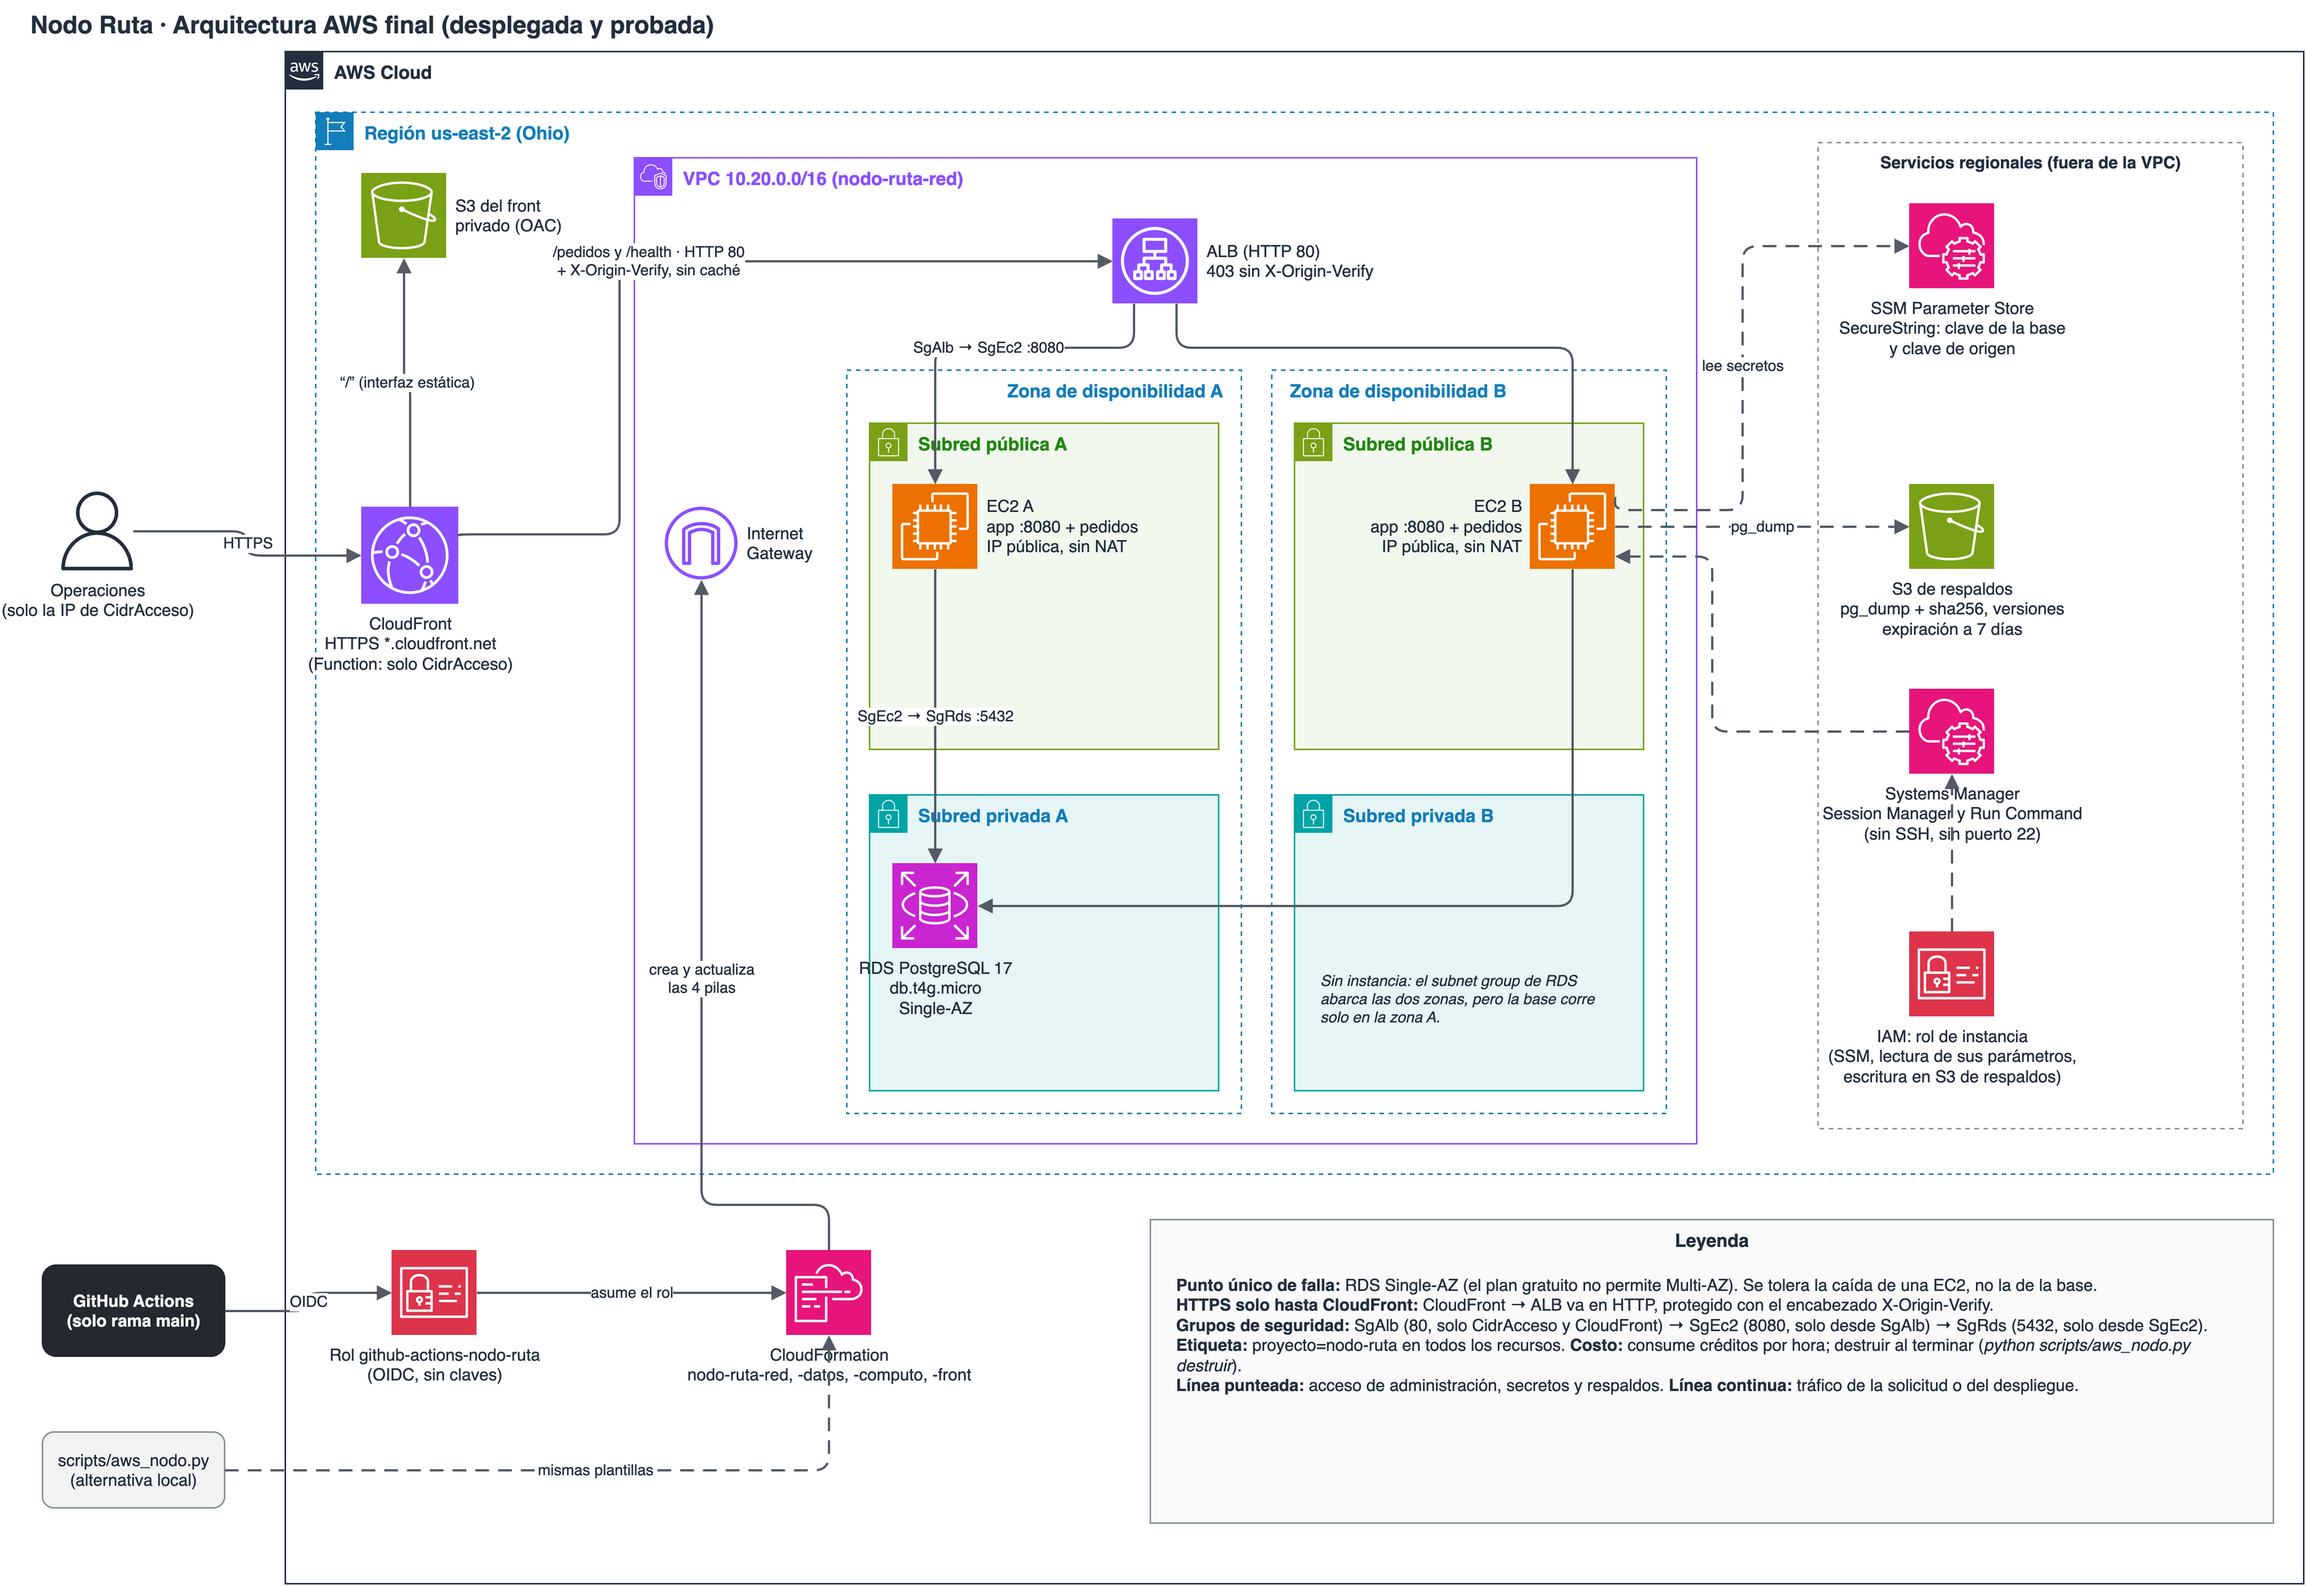
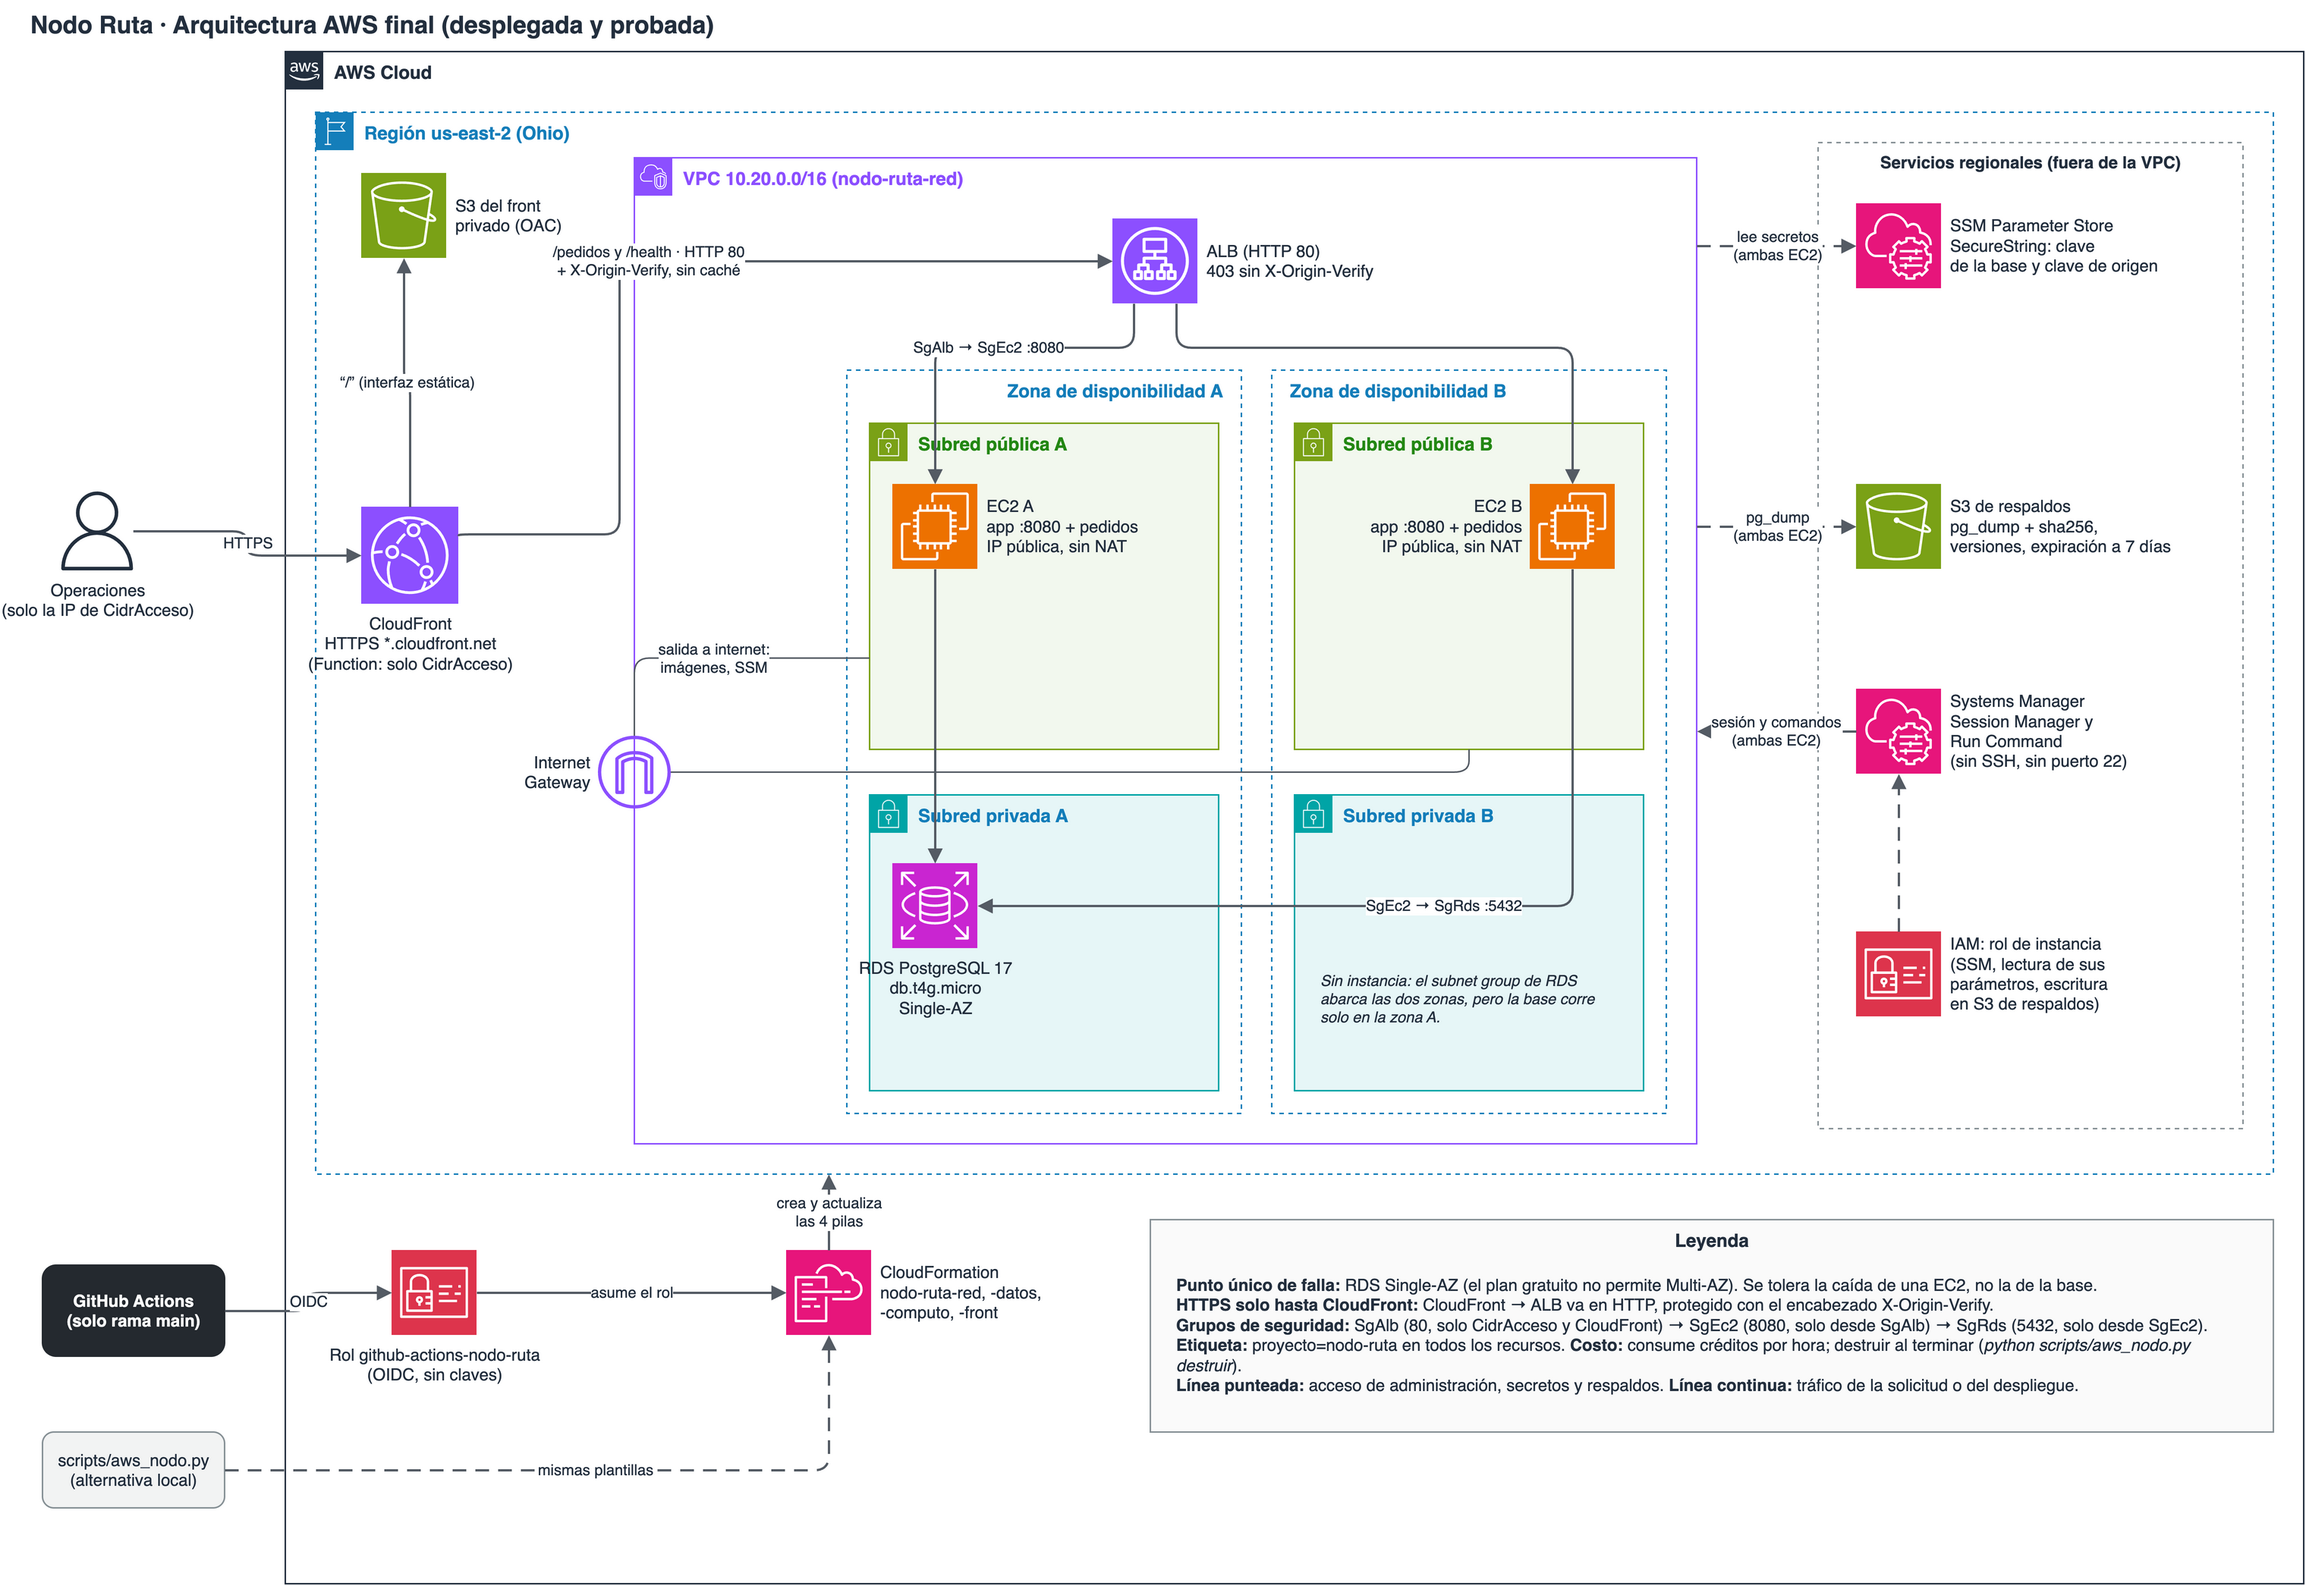
docs: ajustar diagrama AWS final (flechas sin cruzar textos, IGW conectado, accesos de ambas EC2)

diff --git a/docs/arquitectura/generar_aws_final.py b/docs/arquitectura/generar_aws_final.py
@@ -25,12 +25,14 @@ def add(value, style, x, y, w, h, cid=None):
     return cid
 
 
-def edge(src, tgt, label="", dashed=False, exit=None, entry=None, color="#545B64", pts=None, both=False):
+def edge(src, tgt, label="", dashed=False, exit=None, entry=None, color="#545B64", pts=None, both=False, thin=False):
     cid = nid("e")
     st = ("edgeStyle=orthogonalEdgeStyle;rounded=1;jettySize=auto;html=1;endArrow=block;endFill=1;"
           f"strokeColor={color};strokeWidth=1.5;fontSize=10;fontColor=#232F3E;labelBackgroundColor=#FFFFFF;")
     if dashed:
         st += "dashed=1;dashPattern=6 4;"
+    if thin:
+        st = st.replace("strokeWidth=1.5","strokeWidth=1").replace("endArrow=block;endFill=1","endArrow=none")
     if both:
         st += "startArrow=block;startFill=1;"
     if exit:
@@ -95,36 +97,36 @@ usuario = shape("user", "gen", "Operaciones<br>(solo la IP de CidrAcceso)", 40, 
 
 # AWS Cloud + Region
 group("group_aws_cloud_alt", "AWS Cloud", 190, 40, 1330, 1010, "#232F3E", "#232F3E")
-group("group_region", "Región us-east-2 (Ohio)", 210, 80, 1290, 700, "#147EBA", "#147EBA", dashed=1)
+region = group("group_region", "Región us-east-2 (Ohio)", 210, 80, 1290, 700, "#147EBA", "#147EBA", dashed=1)
 
 # front: CloudFront y S3 del front
 cf = icon("cloudfront", "net", "CloudFront<br>HTTPS *.cloudfront.net<br>(Function: solo CidrAcceso)", 240, 340, 64)
 s3f = icon("s3", "sto", "S3 del front<br>privado (OAC)", 240, 120, 56, right=True)
 
 # VPC
-group("group_vpc2", "VPC 10.20.0.0/16 (nodo-ruta-red)", 420, 110, 700, 650, "#8C4FFF", "#8C4FFF")
-igw = shape("internet_gateway", "net", "Internet<br>Gateway", 440, 340, 48, right=True)
+vpc = group("group_vpc2", "VPC 10.20.0.0/16 (nodo-ruta-red)", 420, 110, 700, 650, "#8C4FFF", "#8C4FFF")
+igw = add("Internet<br>Gateway", "sketch=0;outlineConnect=0;gradientColor=none;fillColor=#8C4FFF;strokeColor=none;dashed=0;aspect=fixed;pointerEvents=1;"+LBL+"labelPosition=left;verticalLabelPosition=middle;align=right;verticalAlign=middle;spacingRight=4;shape=mxgraph.aws4.internet_gateway;", 396, 491, 48, 48)
 alb = icon("application_load_balancer", "net", "ALB (HTTP 80)<br>403 sin X-Origin-Verify", 735, 150, 56, right=True)
 
 # AZ A
 box("Zona de disponibilidad A", 560, 250, 260, 490, align="right")
-group("group_security_group", "Subred pública A", 575, 285, 230, 215, "#7AA116", "#248814", fill="#F2F8EE")
+pubA = group("group_security_group", "Subred pública A", 575, 285, 230, 215, "#7AA116", "#248814", fill="#F2F8EE")
 ec2a = icon("ec2", "comp", "EC2 A<br>app :8080 + pedidos<br>IP pública, sin NAT", 590, 325, 56, right=True)
 group("group_security_group", "Subred privada A", 575, 530, 230, 195, "#00A4A6", "#147EBA", fill="#E6F6F7")
 rds = icon("rds", "db", "RDS PostgreSQL 17<br>db.t4g.micro<br>Single-AZ", 590, 575, 56)
 # AZ B
 box("Zona de disponibilidad B", 840, 250, 260, 490, align="left")
-group("group_security_group", "Subred pública B", 855, 285, 230, 215, "#7AA116", "#248814", fill="#F2F8EE")
+pubB = group("group_security_group", "Subred pública B", 855, 285, 230, 215, "#7AA116", "#248814", fill="#F2F8EE")
 ec2b = icon("ec2", "comp", "EC2 B<br>app :8080 + pedidos<br>IP pública, sin NAT", 1010, 325, 56, left=True)
 group("group_security_group", "Subred privada B", 855, 530, 230, 195, "#00A4A6", "#147EBA", fill="#E6F6F7")
 text("Sin instancia: el <i>subnet group</i> de RDS abarca las dos zonas, pero la base corre solo en la zona A.",
      870, 640, 200, 60, 10, "fontStyle=2;")
 
 # derecha: servicios fuera de la VPC
-ssmp = icon("systems_manager", "mgmt", "SSM Parameter Store<br>SecureString: clave de la base<br>y clave de origen", 1260, 140, 56)
-s3b = icon("s3", "sto", "S3 de respaldos<br>pg_dump + sha256, versiones<br>expiración a 7 días", 1260, 325, 56)
-ssm = icon("systems_manager", "mgmt", "Systems Manager<br>Session Manager y Run Command<br>(sin SSH, sin puerto 22)", 1260, 460, 56)
-iam = icon("identity_and_access_management", "sec", "IAM: rol de instancia<br>(SSM, lectura de sus parámetros,<br>escritura en S3 de respaldos)", 1260, 620, 56)
+ssmp = icon("systems_manager", "mgmt", "SSM Parameter Store<br>SecureString: clave<br>de la base y clave de origen", 1225, 140, 56, right=True)
+s3b = icon("s3", "sto", "S3 de respaldos<br>pg_dump + sha256,<br>versiones, expiración a 7 días", 1225, 325, 56, right=True)
+ssm = icon("systems_manager", "mgmt", "Systems Manager<br>Session Manager y<br>Run Command<br>(sin SSH, sin puerto 22)", 1225, 460, 56, right=True)
+iam = icon("identity_and_access_management", "sec", "IAM: rol de instancia<br>(SSM, lectura de sus<br>parámetros, escritura<br>en S3 de respaldos)", 1225, 620, 56, right=True)
 box("Servicios regionales (fuera de la VPC)", 1200, 100, 280, 650, stroke="#879196", font="#232F3E", size=11)
 
 # CI/CD (dentro de la cuenta, bajo la región)
@@ -133,20 +135,20 @@ gh = add("GitHub Actions<br>(solo rama main)", "rounded=1;whiteSpace=wrap;html=1
 nodo = add("scripts/aws_nodo.py<br>(alternativa local)", "rounded=1;whiteSpace=wrap;html=1;fillColor=#F2F3F3;"
            "strokeColor=#879196;fontColor=#232F3E;fontSize=11;", 30, 950, 120, 50)
 rol = icon("identity_and_access_management", "sec", "Rol github-actions-nodo-ruta<br>(OIDC, sin claves)", 260, 830, 56)
-cfn = icon("cloudformation", "mgmt", "CloudFormation<br>nodo-ruta-red, -datos, -computo, -front", 520, 830, 56)
+cfn = icon("cloudformation", "mgmt", "CloudFormation<br>nodo-ruta-red, -datos,<br>-computo, -front", 520, 830, 56, right=True)
 text("Tamaño y clase de instancia según los parámetros de las plantillas. Todo con la etiqueta proyecto=nodo-ruta.",
      600, 800, 10, 10, 1, "fontColor=#FFFFFF;")  # marcador invisible para mantener la plantilla simple
 cells.pop()
 
 # leyenda
-box("Leyenda", 760, 810, 740, 200, stroke="#879196", font="#232F3E", dashed=0, fill="#FAFAFA", size=12)
+box("Leyenda", 760, 810, 740, 140, stroke="#879196", font="#232F3E", dashed=0, fill="#FAFAFA", size=12)
 text("<b>Punto único de falla:</b> RDS Single-AZ (el plan gratuito no permite Multi-AZ). Se tolera la caída de una EC2, no la de la base.<br>"
      "<b>HTTPS solo hasta CloudFront:</b> CloudFront → ALB va en HTTP, protegido con el encabezado X-Origin-Verify.<br>"
      "<b>Grupos de seguridad:</b> SgAlb (80, solo CidrAcceso y CloudFront) → SgEc2 (8080, solo desde SgAlb) → SgRds (5432, solo desde SgEc2).<br>"
      "<b>Etiqueta:</b> proyecto=nodo-ruta en todos los recursos. <b>Costo:</b> consume créditos por hora; destruir al terminar "
      "(<i>python scripts/aws_nodo.py destruir</i>).<br>"
      "<b>Línea punteada:</b> acceso de administración, secretos y respaldos. <b>Línea continua:</b> tráfico de la solicitud o del despliegue.",
-     775, 840, 710, 180, 11)
+     775, 840, 710, 100, 11)
 
 # ---------------- flechas ----------------
 edge(usuario, cf, "HTTPS", exit=(1, 0.5), entry=(0, 0.5))
@@ -155,16 +157,21 @@ edge(cf, alb, "/pedidos y /health · HTTP 80<br>+ X-Origin-Verify, sin caché", 
      pts=[(410, 358), (410, 178)])
 edge(alb, ec2a, "SgAlb → SgEc2 :8080", exit=(0.25, 1), entry=(0.5, 0), pts=[(749, 235), (618, 235)])
 edge(alb, ec2b, "", exit=(0.75, 1), entry=(0.5, 0), pts=[(777, 235), (1038, 235)])
-edge(ec2a, rds, "SgEc2 → SgRds :5432", exit=(0.5, 1), entry=(0.5, 0))
-edge(ec2b, rds, "", exit=(0.5, 1), entry=(1, 0.5), pts=[(1038, 603)])
-edge(ec2b, ssmp, "lee secretos", dashed=True, exit=(1, 0.15), entry=(0, 0.5), pts=[(1150, 342), (1150, 168)])
-edge(ec2b, s3b, "pg_dump", dashed=True, exit=(1, 0.5), entry=(0, 0.5))
-edge(ssm, ec2b, "", dashed=True, exit=(0, 0.5), entry=(1, 0.85), pts=[(1130, 488), (1130, 373)])
+edge(ec2a, rds, "", exit=(0.5, 1), entry=(0.5, 0))
+edge(ec2b, rds, "SgEc2 → SgRds :5432", exit=(0.5, 1), entry=(1, 0.5), pts=[(1038, 603)])
+def ys(y): return round((y - 110) / 650, 4)
+
+
+edge(vpc, ssmp, "lee secretos<br>(ambas EC2)", dashed=True, exit=(1, ys(168)), entry=(0, 0.5))
+edge(vpc, s3b, "pg_dump<br>(ambas EC2)", dashed=True, exit=(1, ys(353)), entry=(0, 0.5))
+edge(ssm, vpc, "sesión y comandos<br>(ambas EC2)", dashed=True, exit=(0, 0.5), entry=(1, ys(488)))
 edge(iam, ssm, "", dashed=True, exit=(0.5, 0), entry=(0.5, 1))
+edge(igw, pubA, "salida a internet:<br>imágenes, SSM", exit=(0.5, 0), entry=(0, 0.72), pts=[(420, 440)], thin=True)
+edge(igw, pubB, "", exit=(1, 0.5), entry=(0.5, 1), pts=[(970, 515)], thin=True)
 edge(gh, rol, "OIDC", exit=(1, 0.5), entry=(0, 0.5))
 edge(rol, cfn, "asume el rol", exit=(1, 0.5), entry=(0, 0.5))
 edge(nodo, cfn, "mismas plantillas", dashed=True, exit=(1, 0.5), entry=(0.5, 1), pts=[(548, 975)])
-edge(cfn, igw, "crea y actualiza<br>las 4 pilas", exit=(0.5, 0), entry=(0.5, 1), pts=[(548, 800), (464, 800)])
+edge(cfn, region, "crea y actualiza<br>las 4 pilas", exit=(0.5, 0), entry=(round((548 - 210) / 1290, 4), 1))
 
 xml = ('<mxfile host="estudIA" type="device"><diagram id="aws-final" name="AWS final">'
        '<mxGraphModel dx="1600" dy="1100" grid="1" gridSize="10" guides="1" tooltips="1" connect="1" arrows="1" fold="1" '
